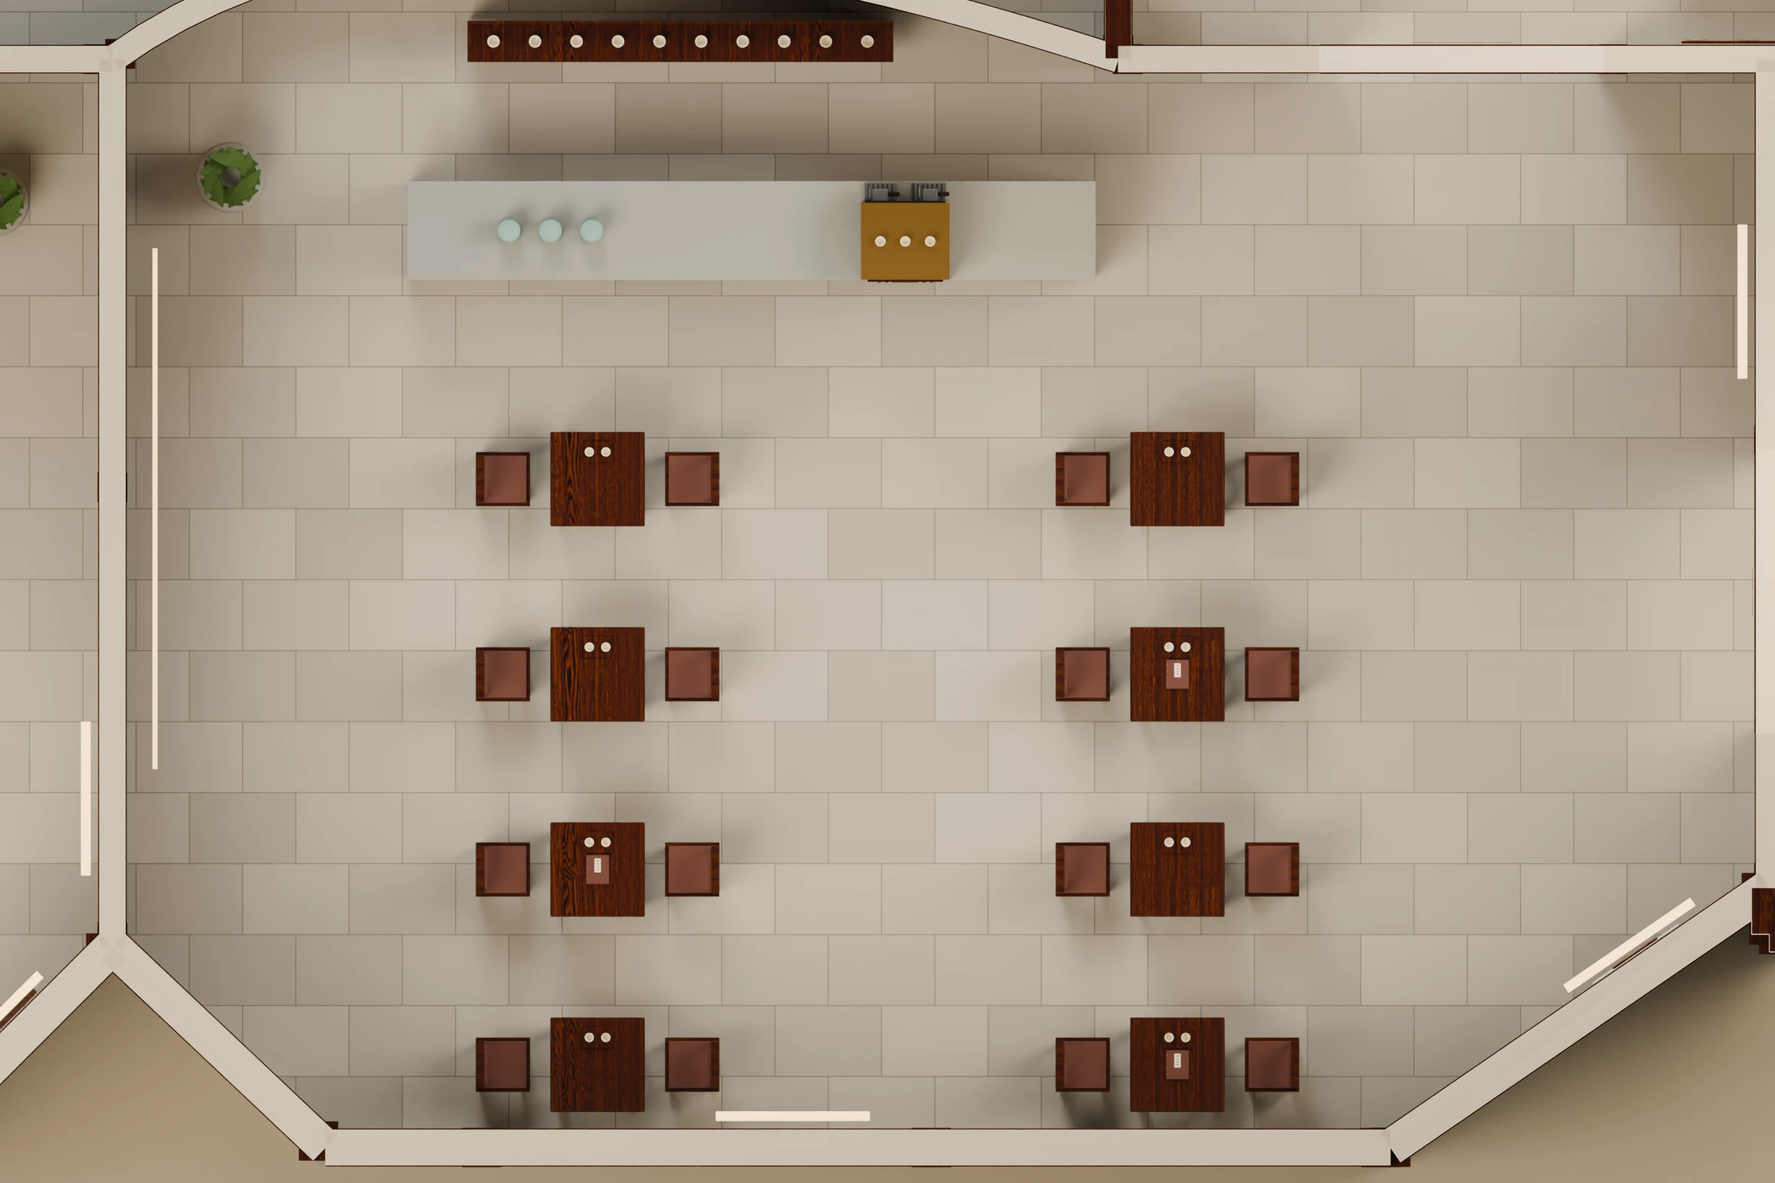
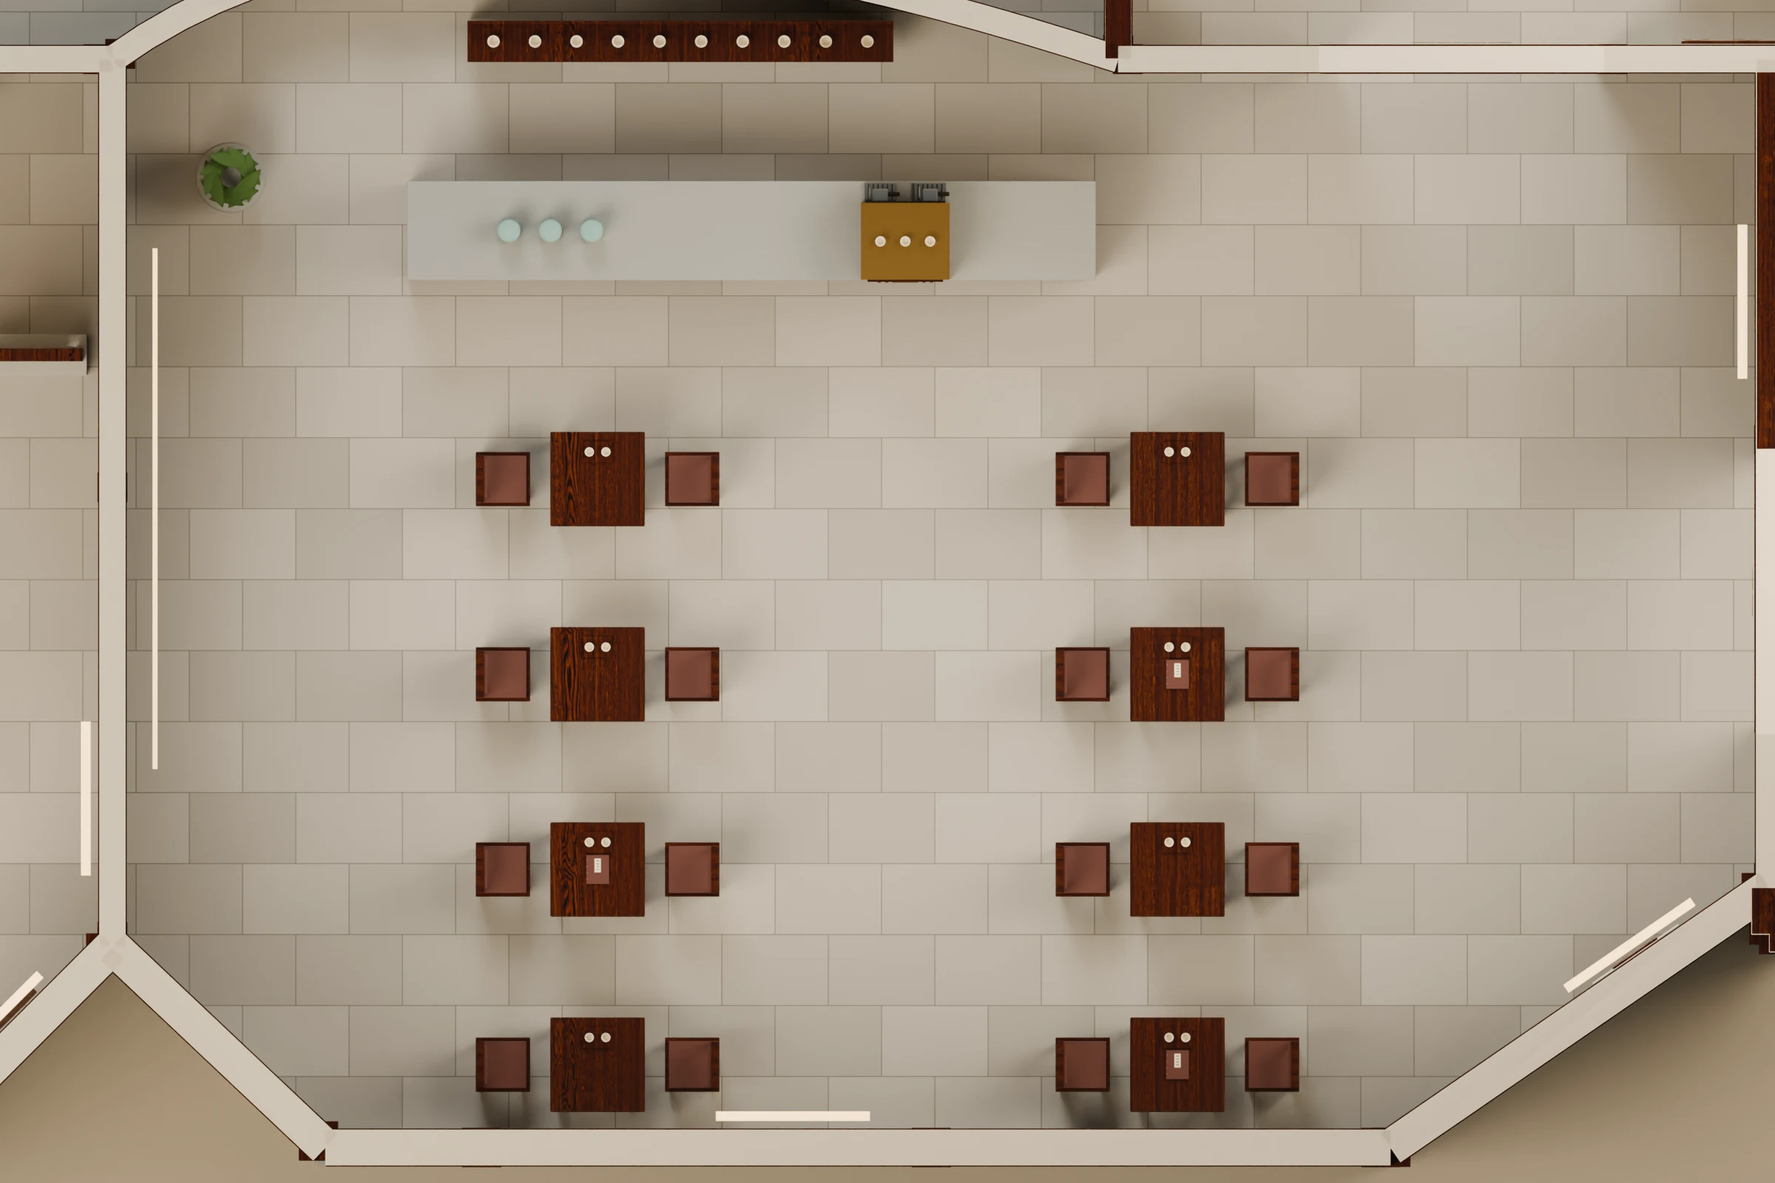
Publish r22 Lingnan entrance and restroom model preview

Changed region(s): [[0.0, 0.0938, 0.0625, 0.3125], [0.9688, 0.0625, 1.0, 0.375]]

diff --git a/index.html b/index.html
@@ -1,4 +1,4 @@
-<!doctype html><html lang="zh-CN"><head><meta charset="utf-8"><meta name="viewport" content="width=device-width,initial-scale=1"><title>莞香展馆 · 参考图陈设重排 r20</title><style>
+<!doctype html><html lang="zh-CN"><head><meta charset="utf-8"><meta name="viewport" content="width=device-width,initial-scale=1"><title>莞香展馆 · 岭南入口与卫生间 r22</title><style>
 :root{--paper:#f1eade;--ink:#392e24;--muted:#74654f;--line:#cbbcaa;--accent:#75543b}
 *{box-sizing:border-box}html{scroll-behavior:smooth;scroll-padding-top:24px}body{margin:0;background:var(--paper);color:var(--ink);font:16px/1.8 "Microsoft YaHei","PingFang SC",sans-serif}::selection{background:#dcc19b;color:#2c2016}body{scrollbar-color:#9c8469 var(--paper)}a{color:inherit;text-underline-offset:5px}button,a{touch-action:manipulation}a:focus-visible,button:focus-visible{outline:3px solid #8d5132;outline-offset:5px}main{max-width:1280px;margin:auto;padding:36px 38px 28px}header{display:flex;justify-content:space-between;align-items:baseline;gap:20px;padding-bottom:18px;border-bottom:1px solid var(--line)}header span{color:var(--muted);font-size:14px}h1,h2,h3{font-family:"Songti SC","SimSun",serif;font-weight:500;text-wrap:balance}h1{font-size:clamp(32px,4.6vw,54px);line-height:1.25;margin:0}h2{font-size:32px;line-height:1.35;margin:0 0 16px}h3{font-size:24px;line-height:1.4;margin:0 0 10px}p{max-width:70ch;margin:12px 0}nav{display:flex;flex-wrap:wrap;gap:12px;margin:22px 0 26px}.button,button{font:inherit;line-height:1.4;border:1px solid var(--accent);padding:12px 19px;background:transparent;color:var(--ink);cursor:pointer;text-decoration:none;min-height:46px}.button:hover,button:hover{background:#e4d7c3}.primary,button[aria-pressed=true]{background:var(--ink);color:var(--paper)}.primary:hover,button[aria-pressed=true]:hover{background:#57412e}figure{margin:0}figure img{display:block;width:100%;height:auto;background:#d8cebc}figure>a{display:block}.hero{margin-top:0}figcaption{color:var(--muted);font-size:14px;padding-top:9px}section{margin-top:64px}.intro{font-size:18px;line-height:1.8;max-width:66ch}.pair{display:grid;grid-template-columns:1fr 1fr;gap:28px}.changes{display:grid;grid-template-columns:1fr 1fr;gap:32px;margin-top:30px}.changes p{margin-top:0}.plan-tools{display:flex;flex-wrap:wrap;gap:10px;margin:20px 0}.plan{background:#f4eee3;max-width:900px;margin:0 auto}.plan svg{width:100%;height:auto;display:block}.visually-off{display:none}.route-caption{color:var(--muted);margin-top:12px}.note{border-top:1px solid var(--line);padding-top:22px;margin-top:32px;color:var(--muted)}footer{border-top:1px solid var(--line);margin-top:64px;padding-top:20px;display:flex;justify-content:space-between;gap:20px;color:var(--muted);font-size:14px}.top-image{max-width:920px;margin:auto}details{margin-top:22px}summary{cursor:pointer;min-height:44px;padding:8px 0}details p{color:var(--muted)}@media(max-width:700px){main{padding:22px 18px}header{display:block}header span{display:block;margin-top:10px}h1{font-size:34px}h2{font-size:27px}.intro{font-size:16px}.pair,.changes{grid-template-columns:1fr;gap:28px}section{margin-top:44px}nav{gap:9px}.button,button{padding:11px 13px}.plan{margin:0 -8px}footer{display:block}.route-caption{font-size:14px}}@media(prefers-reduced-motion:reduce){html{scroll-behavior:auto}}
 
@@ -6,4 +6,4 @@ figure{margin-top:20px}.sheet-links{display:flex;flex-wrap:wrap;gap:12px;margin-
 :focus-visible{outline:3px solid #93601f;outline-offset:5px}a:active{opacity:.75}html{color-scheme:light}.button{min-height:48px}figure a{border-radius:6px;overflow:hidden}.meta{font-size:16px;color:var(--muted)}
 
 .compare{display:grid;grid-template-columns:1fr 1fr;gap:22px}.compare figure{margin:0}.compare figcaption{padding:8px 0}summary{font-size:18px;padding:12px 0;min-height:48px;cursor:pointer}@media(max-width:700px){.compare{grid-template-columns:1fr}}
-</style></head><body data-release="r20-20261015"><main><header><h1>沿香而行，陈设有序</h1><span>莞香展馆 · r20 模型预览</span></header><p class="intro">按已通过的陈设方案重排全馆。主厅形成中轴与成对展台，咖啡区改为四对双人桌椅，沿墙陈列与中央展示共同组织参观体验。</p><p class="meta">底板 60 × 40 厘米 · 比例 1:100 · 400件或组拟展内容 · 咖啡8桌16席 · 实际模型视图</p><nav aria-label="模型视角"><a class="button primary" href="#overview">去顶全馆</a><a class="button" href="#hall">香器主厅</a><a class="button" href="#cafe">咖啡区</a><a class="button" href="#plan">全馆俯瞰</a><a class="button" href="#reference">参考对照</a></nav><section id="overview"><h2>01 · 全馆陈设重新归位</h2><p>按参考图重组沿墙陈列、中央展台与重点器物，保留现有分区和门洞。</p><figure><a href="模型预览/01_去顶整体.png?v=r20-20261015" target="_blank" rel="noopener" aria-label="放大全馆陈设重新归位"><img src="网页图像/01_去顶整体.webp?v=r20-20261015" width="2400" height="1600" fetchpriority="high" alt="莞香展馆r20实际模型：全馆陈设重新归位"></a><figcaption>点击图片查看原图</figcaption></figure></section><section id="hall"><h2>02 · 品香 · 中轴与成对陈列</h2><p>后墙中央叶雕，两侧成对陈列；中央长展台、独立重点台和前排低柜形成观看层次。</p><figure><a href="模型预览/02_主厅整体.png?v=r20-20261015" target="_blank" rel="noopener" aria-label="放大品香 · 中轴与成对陈列"><img src="网页图像/02_主厅整体.webp?v=r20-20261015" width="2400" height="1600" loading="lazy" alt="莞香展馆r20实际模型：品香 · 中轴与成对陈列"></a><figcaption>点击图片查看原图</figcaption></figure></section><section id="gallery"><h2>03 · 香庭 · 开放回廊</h2><p>回廊保留柱梁和廊灯，全馆继续去顶；庭院保留景石、坐凳和安装树位。</p><figure><a href="模型预览/03_香庭回廊.png?v=r20-20261015" target="_blank" rel="noopener" aria-label="放大香庭 · 开放回廊"><img src="网页图像/03_香庭回廊.webp?v=r20-20261015" width="2400" height="1600" loading="lazy" alt="莞香展馆r20实际模型：香庭 · 开放回廊"></a><figcaption>点击图片查看原图</figcaption></figure></section><section id="objects"><h2>04 · 香器 · 主次分明</h2><p>重点香器居中，相关器型分列两侧；器物原有尺寸和细部保留。</p><figure><a href="模型预览/04_香器细节.png?v=r20-20261015" target="_blank" rel="noopener" aria-label="放大香器 · 主次分明"><img src="网页图像/04_香器细节.webp?v=r20-20261015" width="2400" height="1600" loading="lazy" alt="莞香展馆r20实际模型：香器 · 主次分明"></a><figcaption>点击图片查看原图</figcaption></figure></section><section id="botany"><h2>05 · 识香 · 沿墙与中央观察</h2><p>植物和香材沿墙分组，中央低台、窄长标本柜和树体剖面分别组织。</p><figure><a href="模型预览/05_识香陈列.png?v=r20-20261015" target="_blank" rel="noopener" aria-label="放大识香 · 沿墙与中央观察"><img src="网页图像/05_识香陈列.webp?v=r20-20261015" width="2400" height="1600" loading="lazy" alt="莞香展馆r20实际模型：识香 · 沿墙与中央观察"></a><figcaption>点击图片查看原图</figcaption></figure></section><section id="history"><h2>06 · 寻香 · 街铺与贸易</h2><p>后墙陈列、纵向长柜和前后两排低展岛衔接香市故事。</p><figure><a href="模型预览/06_寻香香铺.png?v=r20-20261015" target="_blank" rel="noopener" aria-label="放大寻香 · 街铺与贸易"><img src="网页图像/06_寻香香铺.webp?v=r20-20261015" width="2400" height="1600" loading="lazy" alt="莞香展馆r20实际模型：寻香 · 街铺与贸易"></a><figcaption>点击图片查看原图</figcaption></figure></section><section id="craft"><h2>07 · 传香 · 八席完整操作桌</h2><p>工序、材料及学习成果归入周边陈列，中央保留八席操作桌。</p><figure><a href="模型预览/07_传香手作.png?v=r20-20261015" target="_blank" rel="noopener" aria-label="放大传香 · 八席完整操作桌"><img src="网页图像/07_传香手作.webp?v=r20-20261015" width="2400" height="1600" loading="lazy" alt="莞香展馆r20实际模型：传香 · 八席完整操作桌"></a><figcaption>点击图片查看原图</figcaption></figure></section><section id="retail"><h2>08 · 文创 · 沿墙香礼与中央展岛</h2><p>商品按主题分组陈列，保留取物、停留和进入咖啡区的空间。</p><figure><a href="模型预览/08_文创陈列.png?v=r20-20261015" target="_blank" rel="noopener" aria-label="放大文创 · 沿墙香礼与中央展岛"><img src="网页图像/08_文创陈列.webp?v=r20-20261015" width="2400" height="1600" loading="lazy" alt="莞香展馆r20实际模型：文创 · 沿墙香礼与中央展岛"></a><figcaption>点击图片查看原图</figcaption></figure></section><section id="cafe"><h2>09 · 咖啡 · 四对对称桌椅</h2><p>8张双人桌、16席，左右各4张。吧台移至座席后侧，右侧保持连续通路。</p><figure><a href="模型预览/09_咖啡休憩.png?v=r20-20261015" target="_blank" rel="noopener" aria-label="放大咖啡 · 四对对称桌椅"><img src="网页图像/09_咖啡休憩.webp?v=r20-20261015" width="2400" height="1600" loading="lazy" alt="莞香展馆r20实际模型：咖啡 · 四对对称桌椅"></a><figcaption>点击图片查看原图</figcaption></figure></section><section id="plan"><h2>10 · 正俯看全馆</h2><p>分区、门洞与连续参观顺序延续，展柜和家具按新方案重新摆放。</p><figure><a href="模型预览/10_正俯分区.png?v=r20-20261015" target="_blank" rel="noopener" aria-label="放大正俯看全馆"><img src="网页图像/10_正俯分区.webp?v=r20-20261015" width="2400" height="2400" loading="lazy" alt="莞香展馆r20实际模型：正俯看全馆"></a><figcaption>点击图片查看原图</figcaption></figure></section><section id="cafe-layout"><h2>11 · 两列四排 · 看清座席关系</h2><p>桌椅一一对应，中央服务空间与右侧通路分开组织。</p><figure><a href="模型预览/11_咖啡对称布局.png?v=r20-20261015" target="_blank" rel="noopener" aria-label="放大两列四排 · 看清座席关系"><img src="网页图像/11_咖啡对称布局.webp?v=r20-20261015" width="2400" height="1600" loading="lazy" alt="莞香展馆r20实际模型：两列四排 · 看清座席关系"></a><figcaption>点击图片查看原图</figcaption></figure></section><section id="hall-layout"><h2>12 · 主厅俯瞰 · 看清组合关系</h2><p>后墙、后排低柜、中央主展台、左右重点台及前排低柜构成完整陈列。</p><figure><a href="模型预览/12_主厅陈列布局.png?v=r20-20261015" target="_blank" rel="noopener" aria-label="放大主厅俯瞰 · 看清组合关系"><img src="网页图像/12_主厅陈列布局.webp?v=r20-20261015" width="2400" height="1600" loading="lazy" alt="莞香展馆r20实际模型：主厅俯瞰 · 看清组合关系"></a><figcaption>点击图片查看原图</figcaption></figure></section><section><h2>陈设与参观线</h2><p class="route">序厅 → 寻香 → 识香 → 品香 → 闻香 → 传香手作 → 香庭回廊 → 文创 → 咖啡 → 尾厅出口</p><a class="button" href="制作源/GX_M31_陈设与动线平面_r20.svg" target="_blank" rel="noopener">查看带陈设数量与动线的平面图</a></section><section id="reference"><h2>参考方向对照</h2><p>整体鸟瞰为本轮陈设位置的主要参考；回廊图片用于材质与细部对照。新版按照确认要求去顶、庭院不建树，咖啡区采用8张双人桌。</p><div class="compare"><figure><a href="网页图像/参考_整体鸟瞰.webp?v=r20-20261015" target="_blank" rel="noopener" aria-label="放大陈设参考 · 整体去顶鸟瞰"><img src="网页图像/参考_整体鸟瞰.webp?v=r20-20261015" width="1536" height="1024" loading="lazy" alt="陈设参考 · 整体去顶鸟瞰，概念参考"></a><figcaption>陈设参考 · 整体去顶鸟瞰</figcaption></figure><figure><a href="网页图像/参考_香庭回廊.webp?v=r20-20261015" target="_blank" rel="noopener" aria-label="放大前期风格参考 · 香庭回廊"><img src="网页图像/参考_香庭回廊.webp?v=r20-20261015" width="1536" height="1024" loading="lazy" alt="前期风格参考 · 香庭回廊，概念参考"></a><figcaption>前期风格参考 · 香庭回廊</figcaption></figure></div></section><footer><span>莞香展馆 · 参考图陈设重排 r20</span><span>2026.10.15 · 待模型审核</span></footer></main></body></html>
+</style></head><body data-release="r22-20261015"><main><header><h1>循香入园，石影成趣</h1><span>莞香展馆 · r22 模型预览</span></header><p class="intro">青砖门头、月洞框景、木花格与景石，让入口更有岭南园林氛围。卫生间在原配套区域内完成两个独立厕位与共用双盆洗手区。</p><p class="meta">底板 60 × 40 厘米 · 比例 1:100 · 400件或组拟展内容 · 实际模型视图</p><nav aria-label="模型视角"><a class="button primary" href="#entry">岭南门头</a><a class="button" href="#gallery">序厅框景</a><a class="button" href="#wc">两个厕位</a><a class="button" href="#wash">双盆洗手区</a><a class="button" href="#overview">去顶全馆</a></nav><section id="overview"><h2>01 · 全馆 · 岭南香庭</h2><p>沿用已确认的空间与陈设，深化入口和卫生间。全馆保持去顶展示。</p><figure><a href="模型预览/01_去顶整体.png?v=r22-20261015" target="_blank" rel="noopener" aria-label="放大全馆 · 岭南香庭"><img src="网页图像/01_去顶整体.webp?v=r22-20261015" width="2400" height="1600" fetchpriority="high" alt="莞香展馆r22实际模型：全馆 · 岭南香庭"></a><figcaption>点击图片查看原图</figcaption></figure></section><section id="entry"><h2>02 · 门头 · 循香入园</h2><p>青砖、石框与深木匾额组成入口，两侧壁灯照亮门面与莞香叶雕。</p><figure><a href="模型预览/13_岭南入口正面.png?v=r22-20261015" target="_blank" rel="noopener" aria-label="放大门头 · 循香入园"><img src="网页图像/13_岭南入口正面.webp?v=r22-20261015" width="2400" height="1600" loading="lazy" alt="莞香展馆r22实际模型：门头 · 循香入园"></a><figcaption>点击图片查看原图</figcaption></figure></section><section id="gallery"><h2>03 · 序厅 · 一步见园</h2><p>月洞框景设于主通路侧面，花格、景石与后方莞香叶雕形成前后层次。</p><figure><a href="模型预览/14_序厅入园.png?v=r22-20261015" target="_blank" rel="noopener" aria-label="放大序厅 · 一步见园"><img src="网页图像/14_序厅入园.webp?v=r22-20261015" width="2400" height="1600" loading="lazy" alt="莞香展馆r22实际模型：序厅 · 一步见园"></a><figcaption>点击图片查看原图</figcaption></figure></section><section id="moon"><h2>04 · 框景 · 石影与木格</h2><p>暖白厚墙与青灰石圈收住景石轮廓，深木花格点缀少量暖色、绿色透光片。</p><figure><a href="模型预览/15_月洞框景.png?v=r22-20261015" target="_blank" rel="noopener" aria-label="放大框景 · 石影与木格"><img src="网页图像/15_月洞框景.webp?v=r22-20261015" width="2400" height="1600" loading="lazy" alt="莞香展馆r22实际模型：框景 · 石影与木格"></a><figcaption>点击图片查看原图</figcaption></figure></section><section id="entry-plan"><h2>05 · 俯瞰 · 入口空间关系</h2><p>园林小景与参观线分开组织，洗手间从序厅侧面进入。</p><figure><a href="模型预览/16_入口与卫生间俯瞰.png?v=r22-20261015" target="_blank" rel="noopener" aria-label="放大俯瞰 · 入口空间关系"><img src="网页图像/16_入口与卫生间俯瞰.webp?v=r22-20261015" width="2400" height="1600" loading="lazy" alt="莞香展馆r22实际模型：俯瞰 · 入口空间关系"></a><figcaption>点击图片查看原图</figcaption></figure></section><section id="wc"><h2>06 · 卫生间 · 两个独立厕位</h2><p>两个并排厕位各设一座马桶，外侧共用双盆洗手台，入口短墙形成隐私转折。</p><figure><a href="模型预览/17_卫生间去顶.png?v=r22-20261015" target="_blank" rel="noopener" aria-label="放大卫生间 · 两个独立厕位"><img src="网页图像/17_卫生间去顶.webp?v=r22-20261015" width="2400" height="1600" loading="lazy" alt="莞香展馆r22实际模型：卫生间 · 两个独立厕位"></a><figcaption>点击图片查看原图</figcaption></figure></section><section id="toilet"><h2>07 · 厕位 · 器具细部</h2><p>马桶包含便器、座圈、水箱、盖板与连接管，侧面配置纸架和垃圾桶。</p><figure><a href="模型预览/18_厕位与洗手区.png?v=r22-20261015" target="_blank" rel="noopener" aria-label="放大厕位 · 器具细部"><img src="网页图像/18_厕位与洗手区.webp?v=r22-20261015" width="2400" height="1600" loading="lazy" alt="莞香展馆r22实际模型：厕位 · 器具细部"></a><figcaption>点击图片查看原图</figcaption></figure></section><section id="wash"><h2>08 · 洗手区 · 并列双盆</h2><p>深木柜体、浅石台面与暖白陶瓷统一配色，镜面和灯具沿墙布置。</p><figure><a href="模型预览/19_双盆洗手区.png?v=r22-20261015" target="_blank" rel="noopener" aria-label="放大洗手区 · 并列双盆"><img src="网页图像/19_双盆洗手区.webp?v=r22-20261015" width="2400" height="1600" loading="lazy" alt="莞香展馆r22实际模型：洗手区 · 并列双盆"></a><figcaption>点击图片查看原图</figcaption></figure></section><section id="wc-plan"><h2>09 · 正俯 · 门扇与使用空间</h2><p>厕位门向内开启，门前通道连接两个厕位，洗手台前保留使用空间。</p><figure><a href="模型预览/20_卫生间正俯.png?v=r22-20261015" target="_blank" rel="noopener" aria-label="放大正俯 · 门扇与使用空间"><img src="网页图像/20_卫生间正俯.webp?v=r22-20261015" width="2400" height="1600" loading="lazy" alt="莞香展馆r22实际模型：正俯 · 门扇与使用空间"></a><figcaption>点击图片查看原图</figcaption></figure></section><section id="plan"><h2>10 · 全馆 · 分区与动线</h2><p>现有展区、展具与连续参观顺序延续，入口和配套在原区域内深化。</p><figure><a href="模型预览/10_正俯分区.png?v=r22-20261015" target="_blank" rel="noopener" aria-label="放大全馆 · 分区与动线"><img src="网页图像/10_正俯分区.webp?v=r22-20261015" width="2400" height="2400" loading="lazy" alt="莞香展馆r22实际模型：全馆 · 分区与动线"></a><figcaption>点击图片查看原图</figcaption></figure></section><section id="hall"><h2>11 · 品香 · 中轴陈列延续</h2><p>主厅中轴、成对展台与重点香器陈列保留。</p><figure><a href="模型预览/02_主厅整体.png?v=r22-20261015" target="_blank" rel="noopener" aria-label="放大品香 · 中轴陈列延续"><img src="网页图像/02_主厅整体.webp?v=r22-20261015" width="2400" height="1600" loading="lazy" alt="莞香展馆r22实际模型：品香 · 中轴陈列延续"></a><figcaption>点击图片查看原图</figcaption></figure></section><section id="cafe"><h2>12 · 咖啡 · 四对桌椅延续</h2><p>两列四排，共8张双人桌、16席，手作区仍为8席。</p><figure><a href="模型预览/11_咖啡对称布局.png?v=r22-20261015" target="_blank" rel="noopener" aria-label="放大咖啡 · 四对桌椅延续"><img src="网页图像/11_咖啡对称布局.webp?v=r22-20261015" width="2400" height="1600" loading="lazy" alt="莞香展馆r22实际模型：咖啡 · 四对桌椅延续"></a><figcaption>点击图片查看原图</figcaption></figure></section><section><h2>入口与卫生间布置</h2><a class="button" href="制作源/GX_M33_入口与卫生间布置_r22.svg" target="_blank" rel="noopener">查看局部平面图</a></section><section><h2>循香参观</h2><p class="route">序厅 → 寻香 → 识香 → 品香 → 闻香 → 传香手作 → 香庭回廊 → 文创 → 咖啡 → 尾厅出口</p></section><footer><span>莞香展馆 · 岭南入口与卫生间 r22</span><span>2026.10.15 · 待模型审核</span></footer></main></body></html>
